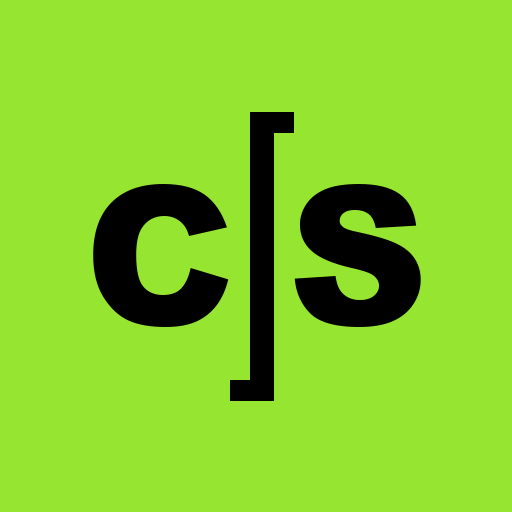
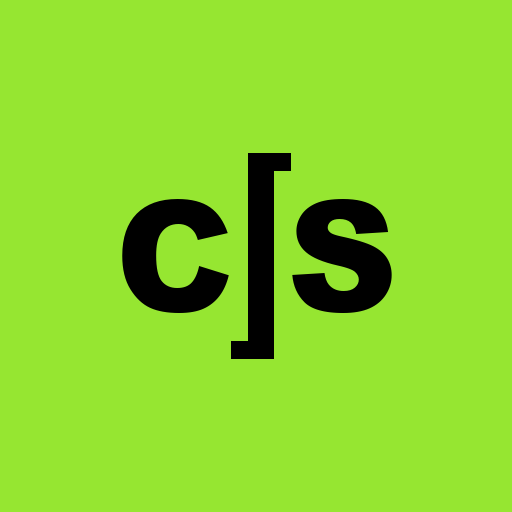
fix: icono iOS con margen seguro para bookmark y home screen
Evita que el squircle de iPhone recorte el C|S; incluye tamaños apple-touch-icon oficiales.

Changed region(s): [[0.1562, 0.2188, 0.5938, 0.7812], [0.5625, 0.3438, 0.8438, 0.6562], [0.5625, 0.4062, 0.625, 0.5]]

diff --git a/index.html b/index.html
@@ -8,15 +8,20 @@
     <meta name="apple-mobile-web-app-capable" content="yes" />
     <meta name="apple-mobile-web-app-status-bar-style" content="default" />
     <meta name="apple-mobile-web-app-title" content="Evidencias" />
-    <link rel="apple-touch-icon" href="/apple-touch-icon.png?v=3" />
-    <link rel="icon" type="image/png" sizes="192x192" href="/pwa-192.png?v=3" />
+    <!-- iOS home screen / bookmarks: cuadrado opaco sin esquinas redondeadas (iOS las aplica) -->
+    <link rel="apple-touch-icon" sizes="180x180" href="/apple-touch-icon.png?v=4" />
+    <link rel="apple-touch-icon" sizes="167x167" href="/apple-touch-icon-167.png?v=4" />
+    <link rel="apple-touch-icon" sizes="152x152" href="/apple-touch-icon-152.png?v=4" />
+    <link rel="apple-touch-icon" sizes="120x120" href="/apple-touch-icon-120.png?v=4" />
+    <link rel="icon" type="image/png" sizes="192x192" href="/pwa-192.png?v=4" />
+    <link rel="icon" type="image/png" sizes="32x32" href="/pwa-192.png?v=4" />
     <title>CTW Evidencias</title>
     <meta name="description" content="Captura y entrega de evidencias de sponsors — Colombia Tech Week" />
     <meta name="author" content="Colombia Tech Week" />
     <meta property="og:type" content="website" />
     <meta property="og:title" content="CTW Evidencias" />
     <meta property="og:description" content="Captura y entrega de evidencias de sponsors — Colombia Tech Week" />
-    <meta property="og:image" content="/pwa-512.png" />
+    <meta property="og:image" content="/pwa-512.png?v=4" />
     <meta name="twitter:card" content="summary" />
     <meta name="twitter:title" content="CTW Evidencias" />
     <script>

diff --git a/vite.config.ts b/vite.config.ts
@@ -52,6 +52,9 @@ export default defineConfig(({ mode }) => ({
       includeAssets: [
         "favicon.ico",
         "apple-touch-icon.png",
+        "apple-touch-icon-120.png",
+        "apple-touch-icon-152.png",
+        "apple-touch-icon-167.png",
         "pwa-192.png",
         "pwa-512.png",
         "pwa-192-maskable.png",
@@ -75,25 +78,25 @@ export default defineConfig(({ mode }) => ({
         categories: ["business", "productivity"],
         icons: [
           {
-            src: "/pwa-192.png?v=3",
+            src: "/pwa-192.png?v=4",
             sizes: "192x192",
             type: "image/png",
             purpose: "any",
           },
           {
-            src: "/pwa-512.png?v=3",
+            src: "/pwa-512.png?v=4",
             sizes: "512x512",
             type: "image/png",
             purpose: "any",
           },
           {
-            src: "/pwa-192-maskable.png?v=3",
+            src: "/pwa-192-maskable.png?v=4",
             sizes: "192x192",
             type: "image/png",
             purpose: "maskable",
           },
           {
-            src: "/pwa-512-maskable.png?v=3",
+            src: "/pwa-512-maskable.png?v=4",
             sizes: "512x512",
             type: "image/png",
             purpose: "maskable",
